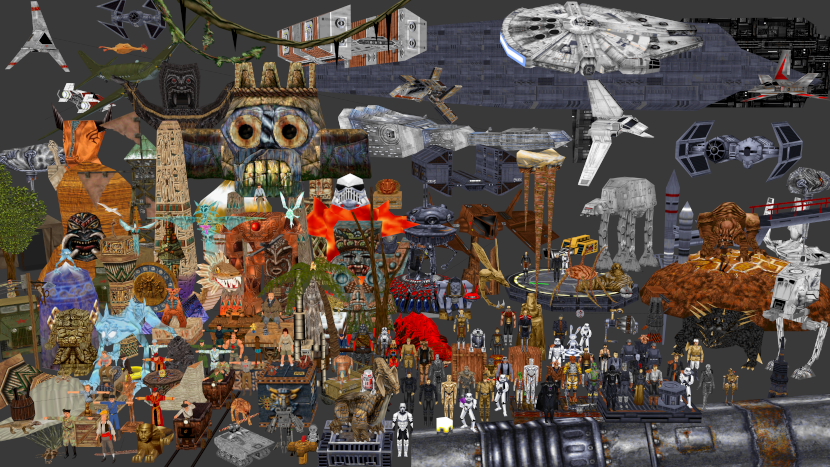
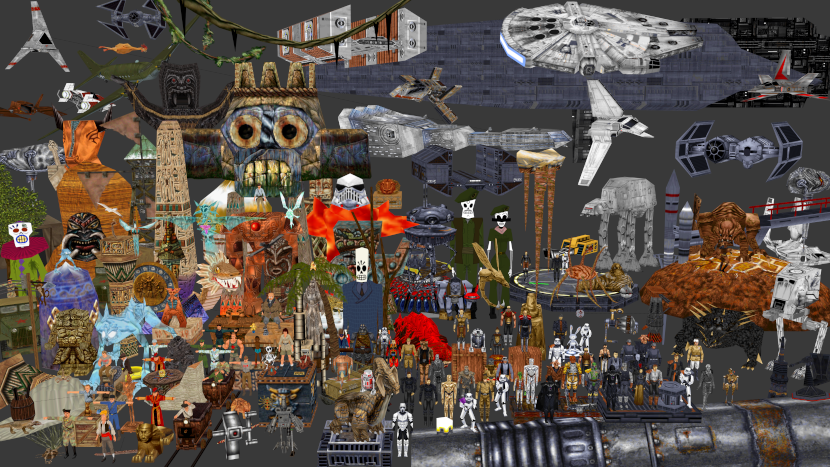
Update README.md

diff --git a/README.md b/README.md
@@ -6,6 +6,7 @@ Addon provides Blender game assets import/export scripts for the games based on 
   - Star Wars Jedi Knight: Mysteries of the Sith
   - Star Wars: DroidWorks
   - Indiana Jones and the Infernal Machine
+  - Grim Fandango - *Only importing of text format 3DO models is supported*
 
 ## Features
   - Import/Export .3do models
@@ -26,7 +27,7 @@ Blender 2.79, you can download it [here](https://download.blender.org/release/Bl
       and select the downloaded `sith.zip` file.
    3. Enable the addon by clicking the checkbox next to the add-on name.
    4. Click the `Save User Settings` button in the lower left and close the preferences window.
-   
+
 ## Usage
 ### Importing 3DO model
    1. Go to `File > Import > Sith Game Engine 3D Model (.3do)`
